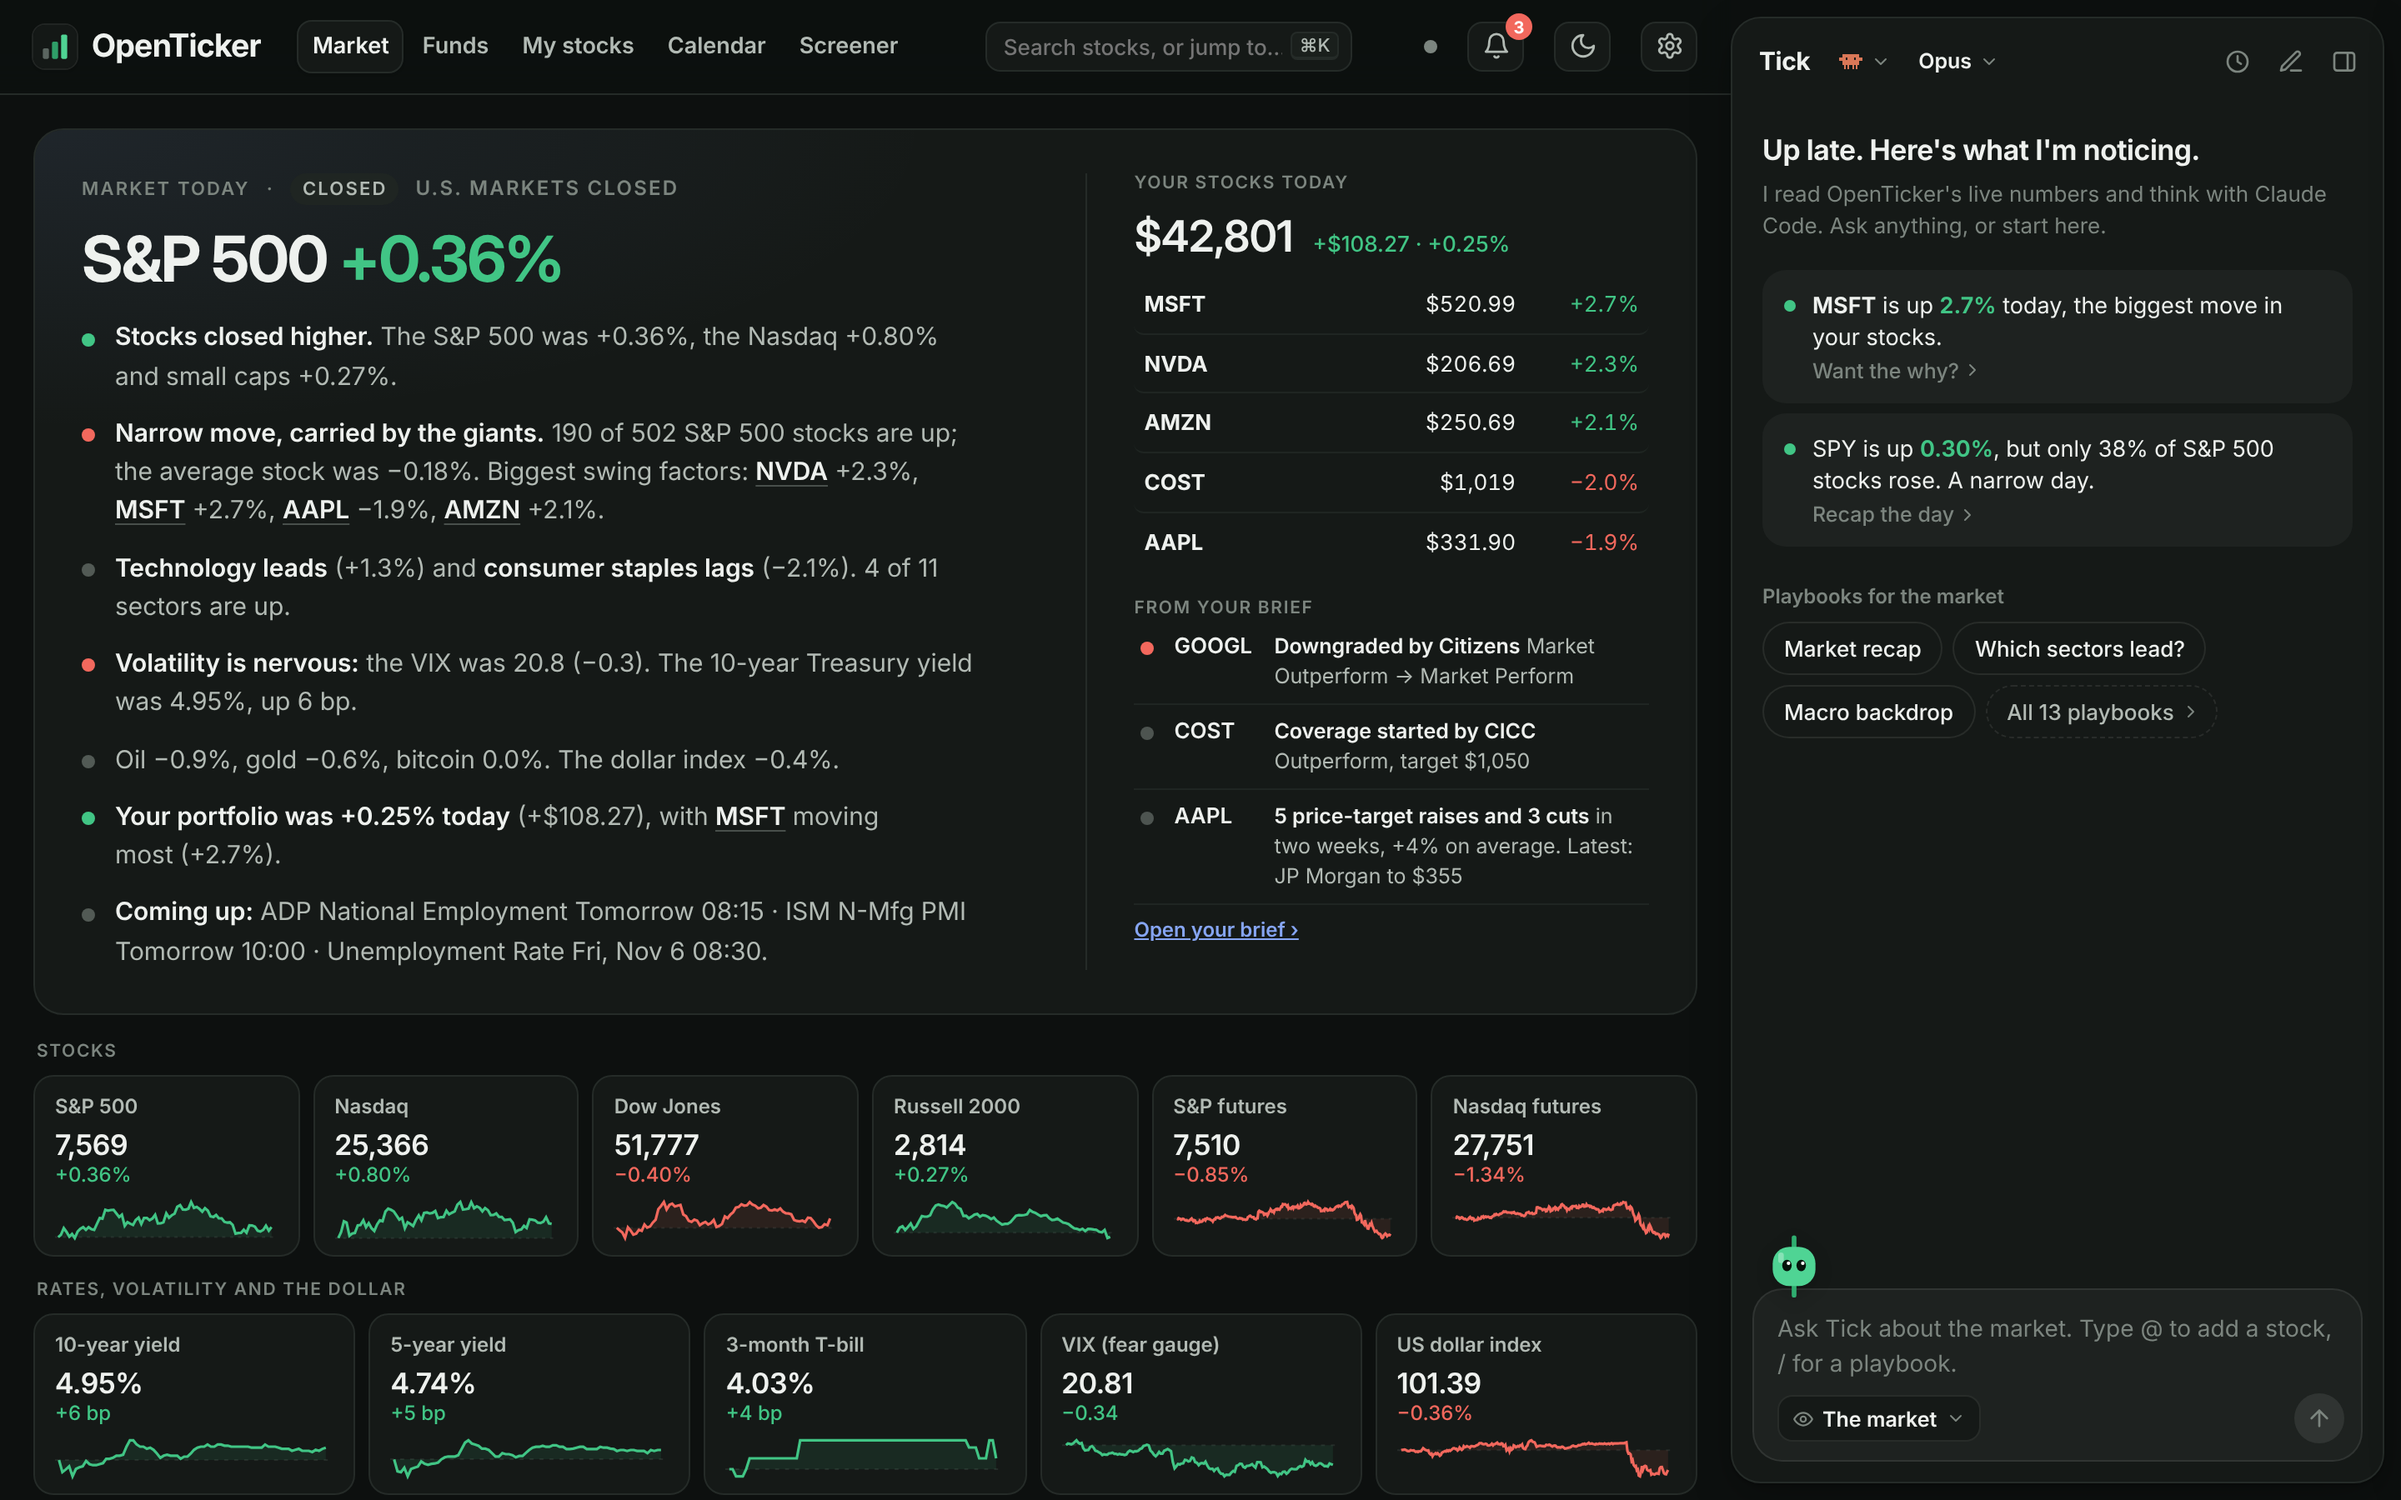
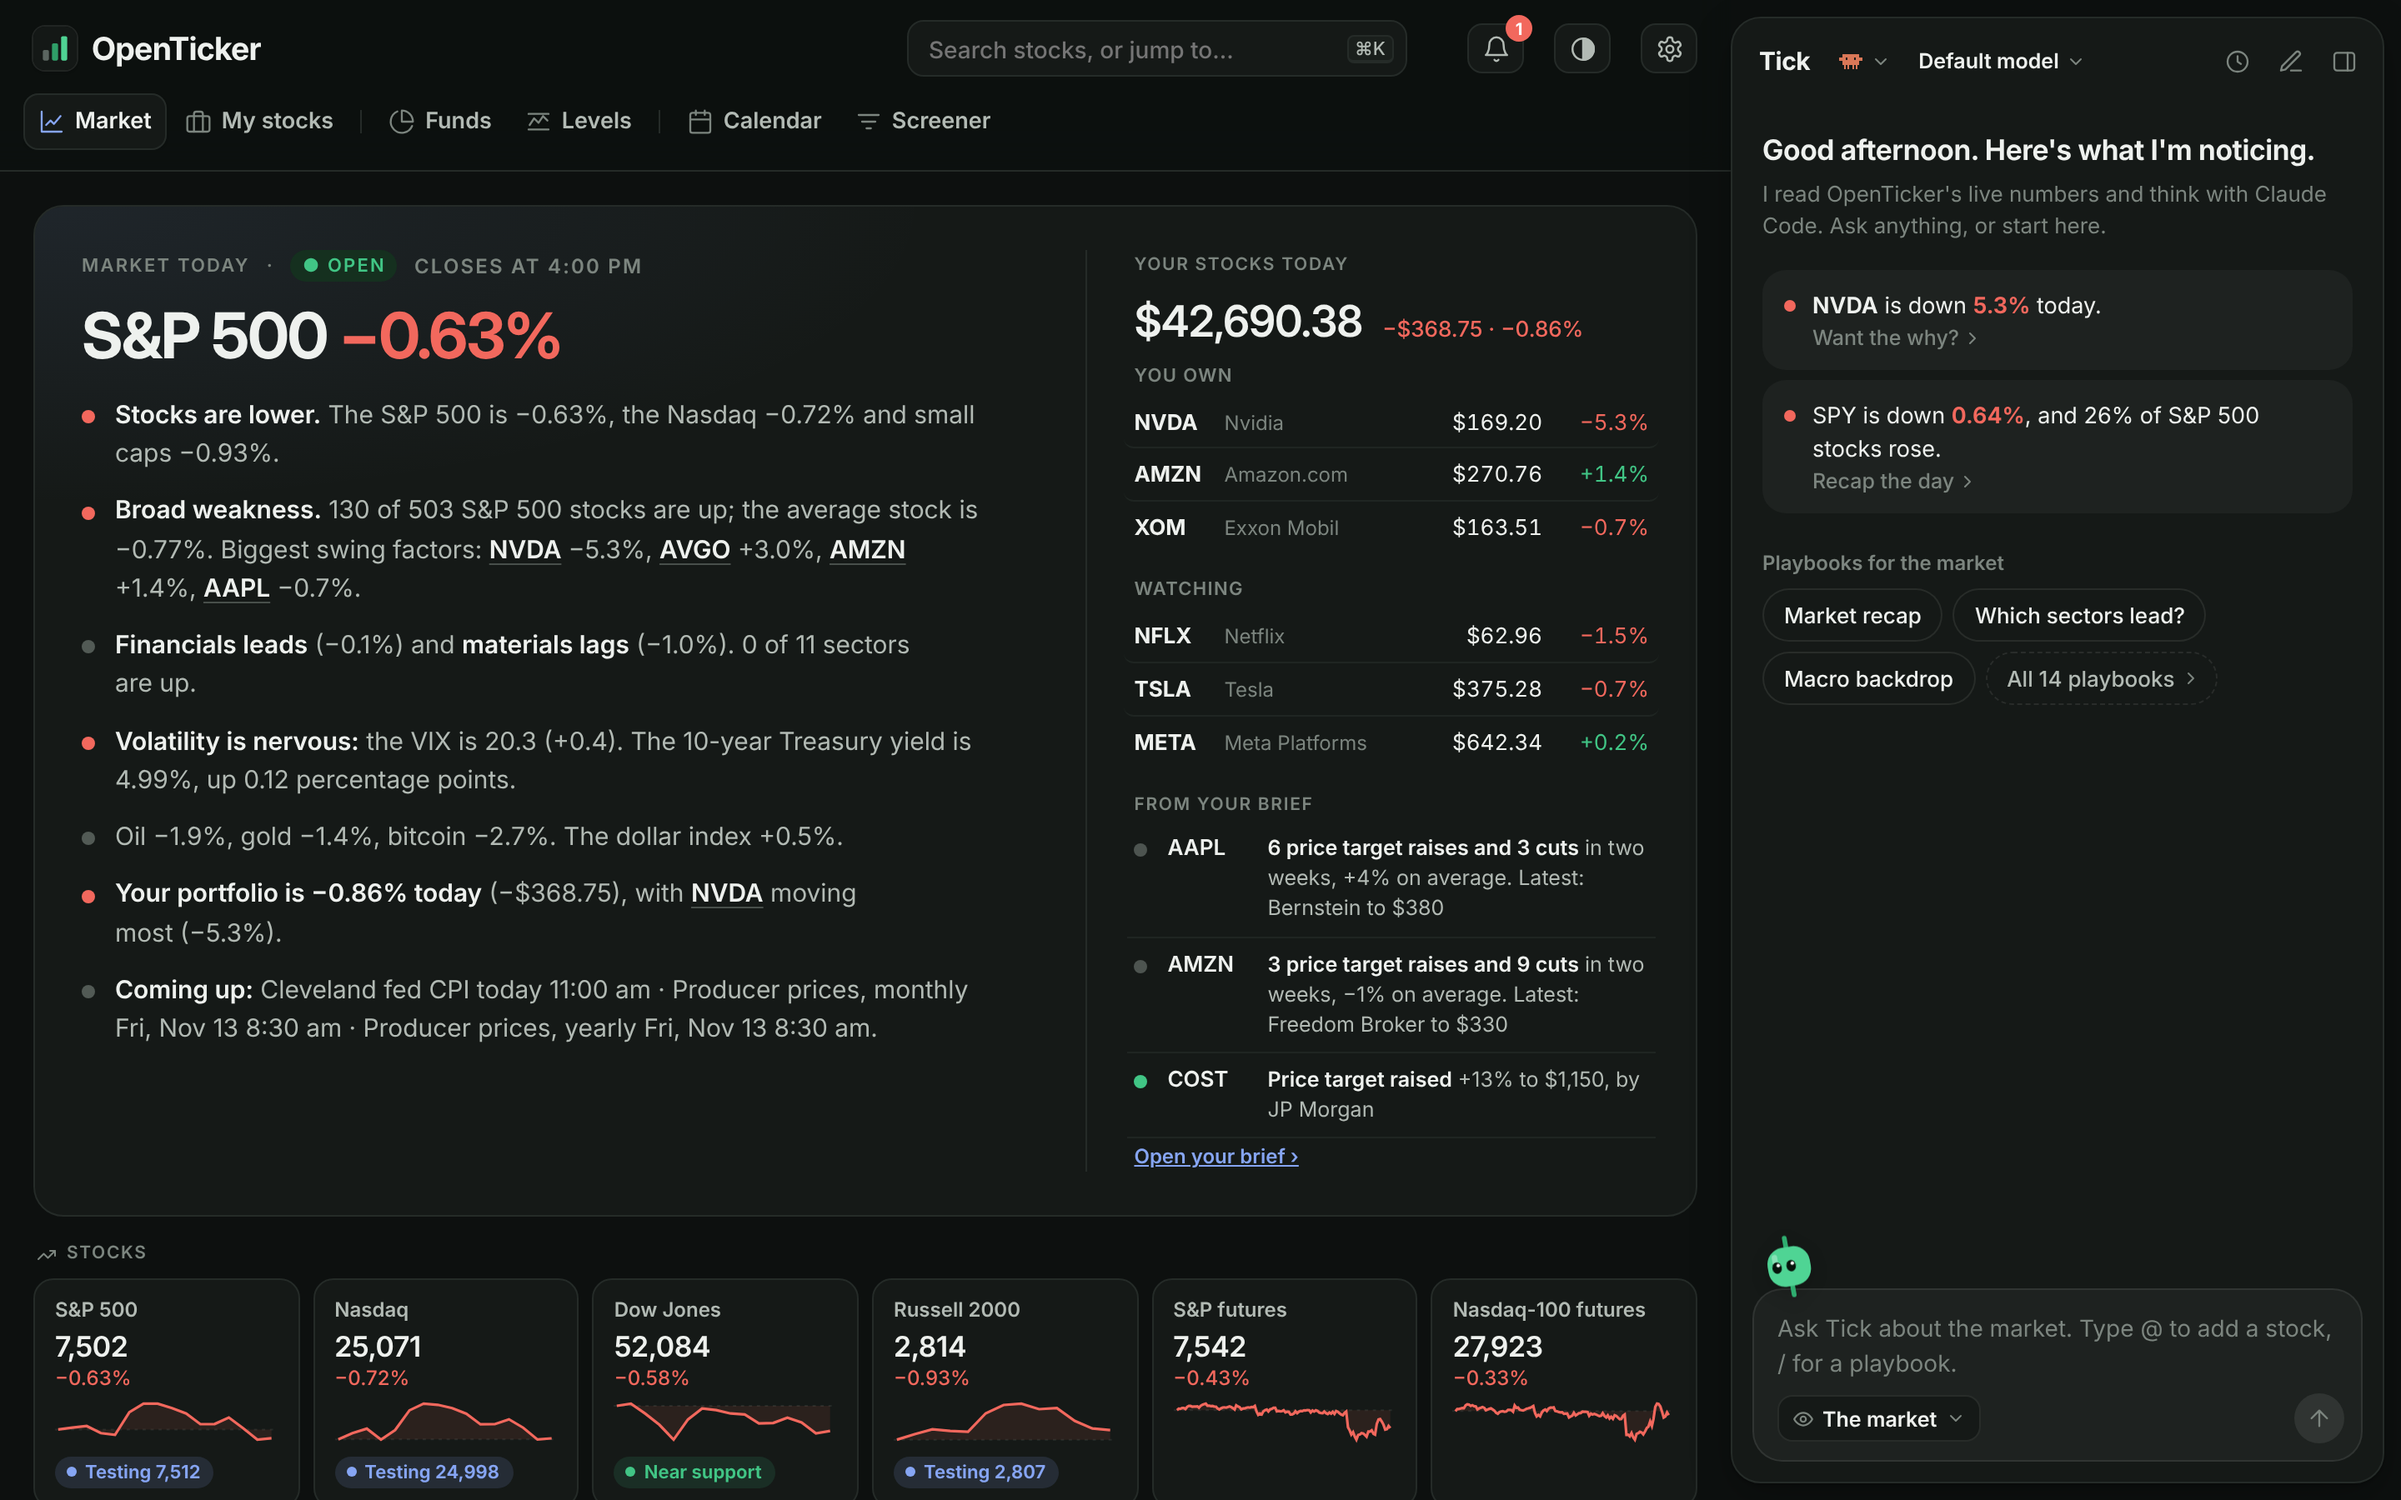
Mac app: save Tick's files to Downloads, Settings in the menu, current macOS calls; new README screenshots
Claude-Session: https://claude.ai/code/session_01WtjLAfb7cmsWx3J1g7Mci9

diff --git a/mac/OpenTicker.swift b/mac/OpenTicker.swift
@@ -68,21 +68,32 @@ let systemBG = NSColor(name: nil) { $0.bestMatch(from: [.darkAqua, .aqua]) == .d
 
 // MARK: - The window
 
-final class Controller: NSObject, WKNavigationDelegate, WKUIDelegate, WKScriptMessageHandler, NSWindowDelegate {
+final class Controller: NSObject, WKNavigationDelegate, WKUIDelegate, WKScriptMessageHandler, NSWindowDelegate,
+                        WKDownloadDelegate {
     let window: NSWindow
     let web: WKWebView
     var home: URL { URL(string: "http://127.0.0.1:\(otPort())/")! }
     var starting = false
+    var downloads: [WKDownload: URL] = [:]   // where each download in flight is being saved
 
     override init() {
         let cfg = WKWebViewConfiguration()
         cfg.websiteDataStore = .default()
-        cfg.applicationNameForUserAgent = "OpenTicker/\(Bundle.main.object(forInfoDictionaryKey: "CFBundleShortVersionString") ?? "1") Version/18.0 Safari/605.1.15"
-        cfg.preferences.setValue(true, forKey: "developerExtrasEnabled")
+        // WebKit writes the rest of the user agent (its own Mac and AppleWebKit tokens) and appends this name
+        cfg.applicationNameForUserAgent = "OpenTicker/\(Bundle.main.object(forInfoDictionaryKey: "CFBundleShortVersionString") ?? "1")"
+        if #available(macOS 13.3, *) {
+            // set on the web view below: isInspectable replaces the private switch
+        } else {
+            // before macOS 13.3, Inspect Element had only this private switch
+            cfg.preferences.setValue(true, forKey: "developerExtrasEnabled")
+        }
         web = WKWebView(frame: .zero, configuration: cfg)
+        if #available(macOS 13.3, *) { web.isInspectable = true }
         web.allowsBackForwardNavigationGestures = false
         web.allowsMagnification = true
-        web.setValue(false, forKey: "drawsBackground")   // no white flash before the page paints
+        // No white flash before the page paints. There is no public switch for this on macOS (WKWebView's
+        // underPageBackgroundColor only colors the overscroll area), so this private key stays.
+        web.setValue(false, forKey: "drawsBackground")
 
         window = NSWindow(contentRect: NSRect(x: 0, y: 0, width: 1440, height: 920),
                           styleMask: [.titled, .closable, .miniaturizable, .resizable],
@@ -225,6 +236,11 @@ final class Controller: NSObject, WKNavigationDelegate, WKUIDelegate, WKScriptMe
 
     func webView(_ webView: WKWebView, decidePolicyFor action: WKNavigationAction,
                  decisionHandler: @escaping (WKNavigationActionPolicy) -> Void) {
+        // <a download> on our own pages (Tick's files) or a blob:/data: link the page built: save it, don't navigate
+        if action.shouldPerformDownload && isInternal(action.request.url) {
+            decisionHandler(.download)
+            return
+        }
         if !isInternal(action.request.url), let url = action.request.url,
            action.navigationType == .linkActivated || action.targetFrame?.isMainFrame == true {
             openOutside(url)
@@ -232,6 +248,73 @@ final class Controller: NSObject, WKNavigationDelegate, WKUIDelegate, WKScriptMe
             return
         }
         decisionHandler(.allow)
+    }
+
+    // A response the window can't show, or one the server marks as an attachment, is saved instead of replacing the page
+    func webView(_ webView: WKWebView, decidePolicyFor response: WKNavigationResponse,
+                 decisionHandler: @escaping (WKNavigationResponsePolicy) -> Void) {
+        let disposition = (response.response as? HTTPURLResponse)?.value(forHTTPHeaderField: "Content-Disposition") ?? ""
+        let attachment = disposition.trimmingCharacters(in: .whitespaces).lowercased().hasPrefix("attachment")
+        if isInternal(response.response.url) && (attachment || !response.canShowMIMEType) {
+            decisionHandler(.download)
+            return
+        }
+        decisionHandler(.allow)
+    }
+
+    // MARK: Downloads
+
+    func webView(_ webView: WKWebView, navigationAction: WKNavigationAction, didBecome download: WKDownload) {
+        download.delegate = self
+    }
+
+    func webView(_ webView: WKWebView, navigationResponse: WKNavigationResponse, didBecome download: WKDownload) {
+        download.delegate = self
+    }
+
+    /// ~/Downloads/name.csv, or "name 2.csv", "name 3.csv"... when that's taken, the way Safari does it.
+    func freeDownloadURL(_ suggested: String) -> URL {
+        let fm = FileManager.default
+        let dir = fm.urls(for: .downloadsDirectory, in: .userDomainMask).first
+            ?? fm.homeDirectoryForCurrentUser.appendingPathComponent("Downloads")
+        var name = (suggested as NSString).lastPathComponent
+            .replacingOccurrences(of: ":", with: "-")
+            .trimmingCharacters(in: CharacterSet(charactersIn: ". ").union(.whitespacesAndNewlines))
+        if name.isEmpty { name = "download" }
+        let ext = (name as NSString).pathExtension
+        let stem = (name as NSString).deletingPathExtension
+        var url = dir.appendingPathComponent(name)
+        var n = 2
+        while fm.fileExists(atPath: url.path) {
+            url = dir.appendingPathComponent(ext.isEmpty ? "\(stem) \(n)" : "\(stem) \(n).\(ext)")
+            n += 1
+        }
+        return url
+    }
+
+    func download(_ download: WKDownload, decideDestinationUsing response: URLResponse, suggestedFilename: String,
+                  completionHandler: @escaping (URL?) -> Void) {
+        let url = freeDownloadURL(suggestedFilename)
+        downloads[download] = url
+        completionHandler(url)
+    }
+
+    func downloadDidFinish(_ download: WKDownload) {
+        guard let url = downloads.removeValue(forKey: download) else { return }
+        // bounce the Downloads stack in the Dock, as browsers do, and show the file in Finder
+        DistributedNotificationCenter.default().post(name: Notification.Name("com.apple.DownloadFileFinished"),
+                                                     object: url.path)
+        NSWorkspace.shared.activateFileViewerSelecting([url])
+    }
+
+    func download(_ download: WKDownload, didFailWithError error: Error, resumeData: Data?) {
+        let name = downloads.removeValue(forKey: download)?.lastPathComponent
+        let e = error as NSError
+        if e.domain == NSURLErrorDomain && e.code == NSURLErrorCancelled { return }
+        let a = NSAlert()
+        a.messageText = name.map { "“\($0)” didn't download" } ?? "The file didn't download"
+        a.informativeText = e.localizedDescription
+        a.beginSheetModal(for: window) { _ in }
     }
 
     // target=_blank and window.open
@@ -282,6 +365,8 @@ final class Controller: NSObject, WKNavigationDelegate, WKUIDelegate, WKScriptMe
     func lost(_ error: Error) {
         let e = error as NSError
         if e.code == NSURLErrorCancelled { return }
+        // 102 "frame load interrupted": a navigation we turned into a download; the page is fine
+        if e.domain == "WebKitErrorDomain" && e.code == 102 { return }
         boot()   // the server restarted or went away: bring it back
     }
 
@@ -295,6 +380,14 @@ final class Controller: NSObject, WKNavigationDelegate, WKUIDelegate, WKScriptMe
     @objc func zoomOut(_ sender: Any?) { web.pageZoom = max(web.pageZoom - 0.1, 0.6) }
     @objc func actualSize(_ sender: Any?) { web.pageZoom = 1 }
     @objc func showWindow(_ sender: Any?) { window.makeKeyAndOrderFront(nil) }
+    /// The page's Settings sheet. Opens it only if it isn't already open: when the page has focus, its own ⌘, handler
+    /// (settings.js) takes the key first and the menu never sees it, so this runs for menu clicks and for ⌘, while
+    /// focus is outside the page.
+    @objc func openSettings(_ sender: Any?) {
+        window.makeKeyAndOrderFront(nil)
+        web.evaluateJavaScript("if (typeof openSettings === 'function' && !document.getElementById('sets')) openSettings()",
+                               completionHandler: nil)
+    }
     @objc func openRepo(_ sender: Any?) { NSWorkspace.shared.open(repoURL) }
     @objc func openLogs(_ sender: Any?) { NSWorkspace.shared.open(otHome().appendingPathComponent("logs/server.log")) }
     @objc func openData(_ sender: Any?) { NSWorkspace.shared.open(otHome()) }
@@ -308,7 +401,11 @@ final class AppDelegate: NSObject, NSApplicationDelegate {
     func applicationDidFinishLaunching(_ n: Notification) {
         buildMenu()
         c = Controller()
-        NSApp.activate(ignoringOtherApps: true)
+        if #available(macOS 14.0, *) {
+            NSApp.activate()
+        } else {
+            NSApp.activate(ignoringOtherApps: true)
+        }
     }
 
     func applicationShouldHandleReopen(_ sender: NSApplication, hasVisibleWindows flag: Bool) -> Bool {
@@ -340,6 +437,8 @@ final class AppDelegate: NSObject, NSApplicationDelegate {
         let me = self as AnyObject
         _ = sub(appName, [
             item("About \(appName)", #selector(NSApplication.orderFrontStandardAboutPanel(_:))),
+            .separator(),
+            item("Settings…", #selector(AppDelegate.openSettings(_:)), ",", target: me),
             .separator(),
             item("Show Your Data in Finder", #selector(AppDelegate.openData(_:)), target: me),
             item("Show Server Log", #selector(AppDelegate.openLogs(_:)), target: me),
@@ -392,6 +491,7 @@ final class AppDelegate: NSObject, NSApplicationDelegate {
     @objc func actualSize(_ s: Any?) { c.actualSize(s) }
     @objc func showWindow(_ s: Any?) { c.showWindow(s) }
     @objc func openRepo(_ s: Any?) { c.openRepo(s) }
+    @objc func openSettings(_ s: Any?) { c.openSettings(s) }
     @objc func openLogs(_ s: Any?) { c.openLogs(s) }
     @objc func openData(_ s: Any?) { c.openData(s) }
 }

diff --git a/README.md b/README.md
@@ -157,6 +157,8 @@ openticker calendar
 | `openticker check` | Fast checks after a change, including the tests |
 | `openticker test [-v]` | Just the tests: the math behind every number |
 | `openticker shot [page\|TICKER] [--dark\|--light] [--phone] [--out FILE]` | Screenshot a page and print where it saved |
+| `openticker accounts` | Your linked brokerages and when they last synced |
+| `openticker sync` | Sync linked brokerages now (they also sync after each trading day's close) |
 | `openticker skills [install]` | List the playbooks, or install them for your agents |
 | `openticker mcp` | Run as an MCP server |
 
